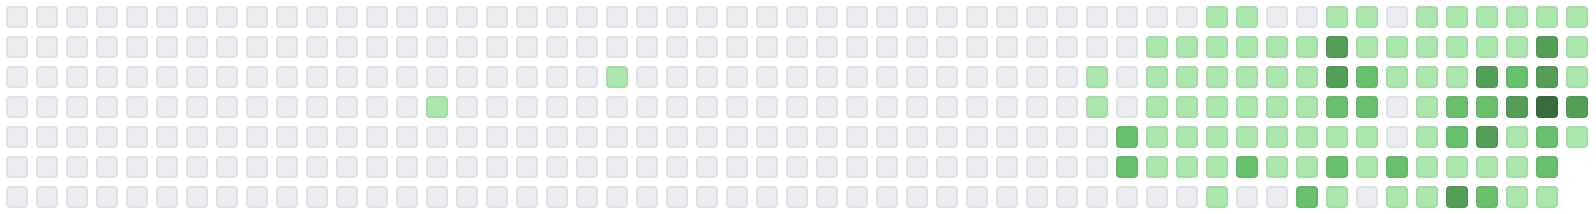
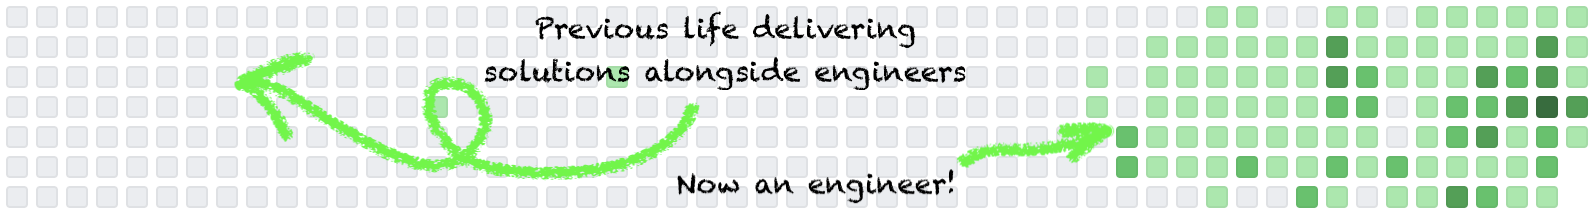
Add past projects and about

diff --git a/index.html b/index.html
@@ -4,7 +4,7 @@
   <title>Taisia (TK) Karaseva : Software Engineer | ex-Scale AI | ex-McKinsey | ex-Salesforce. I build apps that users love.</title>
  <link
       rel="icon"
-      href="img/tk_favicon.jpg?"
+      href="img/tk-favicon.jpg?"
     />
   <link href="https://cdn.jsdelivr.net/npm/bootstrap@5.1.0/dist/css/bootstrap.min.css" rel="stylesheet" integrity="sha384-KyZXEAg3QhqLMpG8r+8fhAXLRk2vvoC2f3B09zVXn8CA5QIVfZOJ3BCsw2P0p/We" crossorigin="anonymous">
   <link rel="stylesheet" href="https://cdn.jsdelivr.net/npm/bootstrap-icons@1.5.0/font/bootstrap-icons.css">
@@ -52,7 +52,7 @@
         <div class='col-md-6 offset-md-3'>
           <sup>Meet Taisia (TK) Karaseva</sup>
           <h1>Bringing together <span class='marker-highlight'>technology</span> and <span class='marker-highlight'>user centricity</span> to build delightful solutions.</h1>
-          <p class='lead mb-5'>I grok users and build tech solutions that they love.</p>
+          <p class='lead mb-5'>I grok users' experience and build tech solutions that they love.</p>
 
           <a target='_blank' href='https://www.linkedin.com/in/taisiakaraseva/' class='btn btn-primary'><i class="bi-linkedin"></i> Connect on Linkedin</a>
           <!-- <a  target='_blank' href='https://calendly.com/morganjlopes/call' class='btn btn-primary'><i class="bi-calendar-event"></i> Schedule a Call</a> -->
@@ -68,19 +68,29 @@
       <label class='sup mb-3 text-muted'>Employment History</label>
 
       <div class='row justify-content-center d-flex align-items-center'>
+        <div class='col-2'>
+          <a href="https://www.stellantis.com/en" target="_blank">
+            <img src="img/fca-logo.png" class='px-3'>
+          </a>
+        </div>
+        <div class='col-2'>
+          <a href="https://www.mckinsey.com" target="_blank">
+            <img src="img/mckinsey-logo.png" class='px-3'>
+          </a>
+        </div>
+        <div class='col-2'>
+          <a href="https://www.salesforce.com" target="_blank">
+            <img src="img/salesforce-logo.png" class='px-3'>
+          </a>
+        </div>
+        <div class='col-2'>
+          <a href="https://www.crunchbase.com/organization/driver" target="_blank">
+            <img src="img/driver-logo.png" class='px-3'>
+          </a>
+        </div>
   <div class='col-2'>
     <a href="https://www.scale.com" target="_blank">
       <img src="img/scale-logo.png" class='px-3'>
-    </a>
-  </div>
-  <div class='col-2'>
-    <a href="https://www.mckinsey.com" target="_blank">
-      <img src="img/mckinsey-logo.png" class='px-3'>
-    </a>
-  </div>
-  <div class='col-2'>
-    <a href="https://www.salesforce.com" target="_blank">
-      <img src="img/salesforce-logo.png" class='px-3'>
     </a>
   </div>
 </div>
@@ -95,18 +105,18 @@
       <div class='row mb-5'>
         <div class='col-sm-4'>
           <div class='card h-100'>
-            <div class='background-image' style='background-image: url(img/portfolio-endit-movement.png)'>
+            <div class='background-image' style='background-image: url(img/caro.png)'>
               <img src='img/spacer-portrait.png'>
             </div>
             <div class='card-body'>
 
-              <h3>END IT Movement</h3>
-              <p class='mb-3'>For 6 years, the team and I worked with END IT Movement to produce the website for their annual 'Shine a Light on Slavery' Day. The site handled 100,000+ visitors w/in 24 hours.</p>
+              <h3>Caro</h3>
+              <p class='mb-3'>A fullstack React/Rails clone of Turo ('airbnb for cars'). Highlights include the Google Maps API integration and database search. </p>
               
             </div>
             <div class='card-footer'>
-              <a href='#' class='btn btn-sm btn-light'><i class="bi-github"></i> Code</a>
-              <a href='#' class='btn btn-sm btn-light'><i class="bi-power"></i> Demo</a>
+              <a href='https://github.com/taisiat/Caro' class='btn btn-sm btn-light'><i class="bi-github"></i> Code</a>
+              <a href='https://caro.herokuapp.com/' class='btn btn-sm btn-light'><i class="bi-power"></i> Demo</a>
               <a href='#' class='btn btn-sm btn-primary float-end'><i class="bi-play-fill"></i> Watch</a>
             </div>
           </div>
@@ -114,19 +124,19 @@
 
         <div class='col-sm-4'>
           <div class='card h-100'>
-            <div class='background-image' style='background-image: url(img/portfolio-aggregate-law.png)'>
+            <div class='background-image' style='background-image: url(img/gg-screenshot.png)'>
               <img src='img/spacer-portrait.png'>
             </div>
             <div class='card-body'>
 
-              <h3>AggregateLaw</h3>
-              <p class='mb-3'>A marketplace for connecting lawfirms with projects attorneys, we worked on the MVP and Version 1 of their product from strategy, through design, to development.</p>
+              <h3>grubGlobe</h3>
+              <p class='mb-3'>An original fullstack MERN app showcasing the world's tastiest recipes. I led the team of software engineers, and I built the OpenAI-powered AI assistants, reviews, and favorites.</p>
               
 
             </div>
             <div class='card-footer'>
-              <a href='#' class='btn btn-sm btn-light'><i class="bi-github"></i> Code</a>
-              <a href='#' class='btn btn-sm btn-light'><i class="bi-power"></i> Demo</a>
+              <a href='https://github.com/ziqi23/Grub-Globe-2' class='btn btn-sm btn-light'><i class="bi-github"></i> Code</a>
+              <a href='https://grubglobe.herokuapp.com/' class='btn btn-sm btn-light'><i class="bi-power"></i> Demo</a>
               <a href='#' class='btn btn-sm btn-primary float-end'><i class="bi-play-fill"></i> Watch</a>
             </div>
           </div>
@@ -134,18 +144,18 @@
 
         <div class='col-sm-4'>
           <div class='card h-100'>
-            <div class='background-image' style='background-image: url(img/portfolio-growing-leaders.png)'>
+            <div class='background-image' style='background-image: url(img/bb-game.png)'>
               <img src='img/spacer-portrait.png'>
             </div>
             <div class='card-body'>
 
-              <h3>Habitudes Online</h3>
-              <p class='mb-3'>We brought Growing Leaders into the digital age by cocreating their online content library. Over 6+ years, we've launched multiple products with thousands of active users.</p>
+              <h3>BouncyBee</h3>
+              <p class='mb-3'>A vanilla JavaScript game inspired by my grandpa, a beekeeper. It features a custom physics engine that make for a dynamic game with elements of cannon shooter, asteroids, pool, and shuffleboard.</p>
 
             </div>
             <div class='card-footer'>
-              <a href='#' class='btn btn-sm btn-light'><i class="bi-github"></i> Code</a>
-              <a href='#' class='btn btn-sm btn-light'><i class="bi-power"></i> Demo</a>
+              <a href='https://github.com/taisiat/bouncy-bee' class='btn btn-sm btn-light'><i class="bi-github"></i> Code</a>
+              <a href='https://taisiat.github.io/bouncy-bee/' class='btn btn-sm btn-light'><i class="bi-power"></i> Demo</a>
               <a href='#' class='btn btn-sm btn-primary float-end'><i class="bi-play-fill"></i> Watch</a>
             </div>
           </div>
@@ -155,56 +165,57 @@
       <h3 class='pt-3'>Other Clients and Past Projects</h3>
       <div class='row'>
         <div class='col-sm-5'>
-          <p class='pb-3 lead'>These items are a collection of companies I've worked with, projects I've undertaken, and products I've helped launch. They include things like:</p>
+          <p class='pb-3 lead'>These items are a collection of companies I've worked with and projects I've undertaken. They include things like:</p>
 
           <ul class='lead'>
-            <li>Brochure Websites</li>
-            <li>User Experience Design</li>
-            <li>App Development</li>
-            <li>Go to Market Strategy</li>
-            <li>MVP Design and Implementation</li>
+            <li>'Proof of Concepts' for prospective AI customers</li>
+            <li>Thought leadership</li>
+            <li>Analytics</li>
+            <li>Executive leadership</li>
+            <li>Journalism</li>
+            <li>Volunteerism</li>
           </ul>
         </div>
         <div class='col-sm-7'>
 
           <ul class='text-center list-inline w-md ms-auto me-auto'>
             <li class='list-inline-item'>
-              <a href='https://hypepotamus.com/featured-events/startup-picture-day-summer-2019/' target='_blank' class='btn'>Startup Picture Day</a>
+              <a href='https://scale.com/blog/partnering-with-customers' target='_blank' class='btn'>Scale Blog - Customer Alignment</a>
             </li>
             <li class='list-inline-item'>
-              <a href='https://www.trustsandcastle.com/' target='_blank' class='btn'>Sandcastle</a>
+              <a href='https://www.meta.com/' target='_blank' class='btn'>Meta</a>
             </li>
             <li class='list-inline-item'>
-              <a href='https://www.shift.org/' target='_blank' class='btn'>Shift.org</a>
+              <a href='https://www.gm.com/' target='_blank' class='btn'>GM</a>
             </li>
             <li class='list-inline-item'>
-              <a href='https://app.jsmoneycoach.com/' target='_blank' class='btn'>JSMoney Coach</a>
+              <a href='https://www.toyota.com/' target='_blank' class='btn'>Toyota</a>
             </li>
             <li class='list-inline-item'>
-              <a href='https://newstorycharity.org/' target='_blank' class='btn'>New Story</a>
+              <a href='https://www.instacart.com/' target='_blank' class='btn'>Instacart</a>
             </li>
             <li class='list-inline-item'>
-              <a href='https://www.feefavor.com/' target='_blank' class='btn'>FeeFavor</a>
+              <a href='https://www.salesforce.com/form/sem/sales-cloud/sales-einstein-demo' target='_blank' class='btn'>Einstein</a>
             </li>
             <li class='list-inline-item'>
-              <a href='https://www.dailylectio.net/' target='_blank' class='btn'>DailyLectio</a>
+              <a href='https://www.mckinsey.com/' target='_blank' class='btn'>McKinsey Product Management Academy</a>
             </li>
             <li class='list-inline-item'>
-              <a href='https://simplygrants.com/' target='_blank' class='btn'>Simply Grants</a>
+              <a href='https://www.linkedin.com/company/nexecon-consulting-group/' target='_blank' class='btn'>Nexecon Consulting Group</a>
             </li>
             <li class='list-inline-item'>
-              <a href='https://www.cimienta.com/' target='_blank' class='btn'>Cimienta</a>
+              <a href='https://dupagechildrens.org/' target='_blank' class='btn'>DuPage Children's Museum</a>
             </li>
             <li class='list-inline-item'>
-              <a href='https://www.investatlanta.com/' target='_blank' class='btn'>Invest Atlanta</a>
+              <a href='https://www.centraltimes.org/showcase/2010/04/27/minding-mrsa/' target='_blank' class='btn'>The Central Times</a>
             </li>
             <li class='list-inline-item'>
-              <a href='https://loveatlanta.com/serve' target='_blank' class='btn'>Love Atlanta</a>
+              <a href='' target='_blank' class='btn'>Pegas Planet Article Database</a>
             </li>
             <li class='list-inline-item'>
-              <a href='https://www.blackgirlventures.org/' target='_blank' class='btn'>Black Girl Ventures</a>
+              <a href='https://worldrelief.org/' target='_blank' class='btn'>World Relief</a>
             </li>
-            <li class='list-inline-item'>
+            <!-- <li class='list-inline-item'>
               <a href='https://northpoint.org/' target='_blank' class='btn'>North Point Church</a>
             </li>
             <li class='list-inline-item'>
@@ -218,7 +229,7 @@
             </li>
             <li class='list-inline-item'>
               <a href='https://passionconferences.com/' target='_blank' class='btn'>Passion Conference</a>
-            </li>
+            </li> -->
           </ul>
         </div>
       </div>
@@ -228,7 +239,7 @@
   <section id='about' class='p-section'>
     <div class='container container-lg'>
       <sup>About</sup>
-      <h2 class='mb-5 underline'>I am Morgan Lopes</h2>
+      <h2 class='mb-5 underline'>I am Taisia (TK!)</h2>
 
       <div class='row flex-row'>
         <div class='col-sm-4'>
@@ -265,20 +276,21 @@
           </div>
         </div>
         <div class='col-sm-8'>
-          <blockquote>Actively writing code and building high-functioning teams.</blockquote>
+          <blockquote>Actively writing code and building solutions.</blockquote>
 
           <img src="img/github-activity.png" class='mb-3'>
 
-          <p class='lead'>Thought-filled software engineer and entrepreneur who understands that deliberate, <span class='marker-highlight'>consistent progress</span> over time is life's greatest growth strategy.</p>
-          <p class='lead'>Regardless of his job titles, Morgan sees leadership as a choice, not a rank. He strives to make that choice daily and challenges others to do the same. Currently serving as CTO at <span class='marker-highlight'>Fast Company's World Most Innovative Company</span> (x4), consulting startup founders, and Launching Book ("Code School") to help more people transition into tech.</p>
+          <p class='lead'>Software engineer and jack-of-all-trades who understands that there is no substitute for <span class='marker-highlight'>deeply understanding the users</span> and how the app/solution fits into their lives.</p>
+          <p class='lead'>Across diverse roles - from management consultant to <span class='marker-highlight'>early-stage AI startup jack-of-all-trades</span> - TK has bridged the gap between engineers and users to deliver solutions that users love. She strives to amplify the positive impact that each user can have by <span class='marker-highlight'>building solutions that scale</span>. In parallel, TK believes that <span class='marker-highlight'>effective collaboration</span> amplifies a team's impact. She's currently open to software engineering opportunities on user-centric teams that drive impact collaboratively. </p>
           
-          <p class='lead mb-0'>Favorite Tools:</p>
+          <p class='lead mb-0'>Favorite tools:</p>
 
           <ul class='lead'>
+            <li><span class='marker-highlight'>React</span></li>
             <li><span class='marker-highlight'>Ruby on Rails</span></li>
+            <li>JavaScript</li>
             <li>Github</li>
-            <li>Heroku</li>
-            <li>AWS</li>
+            <li>APIs... OpenAI, Google Maps, AWS, let's go!</li>
           </ul>
 
           <div class='mt-5'>
@@ -295,7 +307,7 @@
   <section id='testimonials' class='p-section'>
     <div class='container'>
       <sup>Testimonials</sup>
-      <h2 class='mb-5 underline'>Kind Words<br>from Great People</h2>
+      <h2 class='mb-5 underline'>Kind words<br>from great people</h2>
 
       <div class='row'>
         <div class='col-sm-4'>

diff --git a/README.md b/README.md
@@ -3,3 +3,7 @@
 Thanks for peaking at the README of my portfolio site. I suggest checking out the site itself! [TK's portfolio site](https://www.taisiat.com)
 
 _This free personal portfolio theme was provided by Morgan J Lopes. For more information and tools to ease your transition into tech, checkout [Code School Book](https://www.amazon.com/Code-School-Overcome-Syndrome-Kick-Start/dp/1736080709)_
+
+Assets:
+
+- Robilant Associati Studio, Public domain, via Wikimedia Commons
